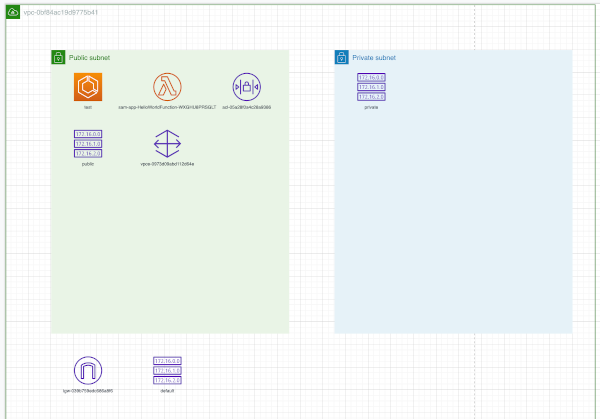
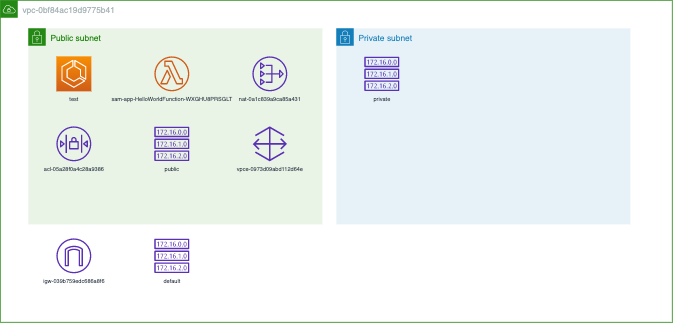
#97 improved dynamic diagram generation

Changed region(s): [[0.0, 0.0, 1.0, 1.0], [0.18, 0.1548, 0.45, 0.5263], [0.36, 0.3715, 0.45, 0.5263]]

diff --git a/cloudiscovery/shared/diagram.py b/cloudiscovery/shared/diagram.py
@@ -404,6 +404,9 @@ class VPCDiagramsNetDiagram(BaseDiagram):
         with open(output_filename, "w") as diagram_file:
             diagram_file.write(diagram)
 
+        message_handler("\n\nDiagrams.net diagram generated", "HEADER")
+        message_handler("Check your diagram: " + output_filename, "OKBLUE")
+
     @staticmethod
     def decode_inflate(value: str):
         decoded = base64.b64decode(value)
@@ -442,20 +445,22 @@ class VPCDiagramsNetDiagram(BaseDiagram):
 
         added_resources: List[ResourceDigest] = []
 
+        vpc_box_height = 56565656
+        subnet_box_height = 424242
         vpc_cell = (
             '<mxCell id="zB3y0Dp3mfEUP9Fxs3Er-{0}" value="{1}" style="points=[[0,0],[0.25,0],[0.5,0],'
             "[0.75,0],[1,0],[1,0.25],[1,0.5],[1,0.75],[1,1],[0.75,1],[0.5,1],[0.25,1],[0,1],[0,0.75],"
             "[0,0.5],[0,0.25]];outlineConnect=0;gradientColor=none;html=1;whiteSpace=wrap;fontSize=12;"
             "fontStyle=0;shape=mxgraph.aws4.group;grIcon=mxgraph.aws4.group_vpc;strokeColor=#248814;"
             'fillColor=none;verticalAlign=top;align=left;spacingLeft=30;fontColor=#AAB7B8;dashed=0;" '
-            'parent="1" vertex="1"><mxGeometry x="0" y="0" width="1040" height="1000" as="geometry" />'
-            "</mxCell>".format(cell_id, vpc_resource.name)
+            'parent="1" vertex="1"><mxGeometry x="0" y="0" width="960" height="{2}" as="geometry" />'
+            "</mxCell>".format(cell_id, vpc_resource.name, vpc_box_height)
         )
         cell_id += 1
         mx_graph_model += vpc_cell
 
-        public_subnet_x = 80
-        public_subnet_y = 80
+        public_subnet_x = 40
+        public_subnet_y = 40
         cell_id += 1
         # pylint: disable=line-too-long
         public_subnet = (
@@ -465,13 +470,17 @@ class VPCDiagramsNetDiagram(BaseDiagram):
             "fontStyle=0;shape=mxgraph.aws4.group;grIcon=mxgraph.aws4.group_security_group;grStroke=0;"
             "strokeColor=#248814;fillColor=#E9F3E6;verticalAlign=top;align=left;spacingLeft=30;"
             'fontColor=#248814;dashed=0;" vertex="1" parent="1"><mxGeometry x="{X}" y="{Y}" width="420" '
-            'height="500" as="geometry" /></mxCell>'.format_map(
-                {"X": str(public_subnet_x), "Y": str(public_subnet_y)}
+            'height="{H}" as="geometry" /></mxCell>'.format_map(
+                {
+                    "X": str(public_subnet_x),
+                    "Y": str(public_subnet_y),
+                    "H": subnet_box_height,
+                }
             )
         )
         mx_graph_model += public_subnet
 
-        mx_graph_model = self.render_subnet_items(
+        (mx_graph_model, public_rows) = self.render_subnet_items(
             added_resources,
             mx_graph_model,
             "{public subnet}",
@@ -481,8 +490,8 @@ class VPCDiagramsNetDiagram(BaseDiagram):
             resources,
         )
 
-        private_subnet_x = 580
-        private_subnet_y = 80
+        private_subnet_x = 480
+        private_subnet_y = 40
         cell_id += 1
         private_subnet = (
             '<mxCell id="private_area_id" value="Private subnet" style="points=[[0,0],[0.25,0],'
@@ -491,13 +500,17 @@ class VPCDiagramsNetDiagram(BaseDiagram):
             "fontSize=12;fontStyle=0;shape=mxgraph.aws4.group;grIcon=mxgraph.aws4.group_security_group;"
             "grStroke=0;strokeColor=#147EBA;fillColor=#E6F2F8;verticalAlign=top;align=left;"
             'spacingLeft=30;fontColor=#147EBA;dashed=0;" vertex="1" parent="1"><mxGeometry '
-            'x="{X}" y="{Y}" width="420" height="500" as="geometry" /></mxCell>'.format_map(
-                {"X": str(private_subnet_x), "Y": str(private_subnet_y)}
+            'x="{X}" y="{Y}" width="420" height="{H}" as="geometry" /></mxCell>'.format_map(
+                {
+                    "X": str(private_subnet_x),
+                    "Y": str(private_subnet_y),
+                    "H": subnet_box_height,
+                }
             )
         )
         mx_graph_model += private_subnet
 
-        mx_graph_model = self.render_subnet_items(
+        (mx_graph_model, private_rows) = self.render_subnet_items(
             added_resources,
             mx_graph_model,
             "{private subnet}",
@@ -505,6 +518,12 @@ class VPCDiagramsNetDiagram(BaseDiagram):
             private_subnet_y,
             resource_relations,
             resources,
+        )
+        subnet_rows = max(public_rows, private_rows)
+        new_subnet_box_height = subnet_rows * 100 + 80
+
+        mx_graph_model = mx_graph_model.replace(
+            str(subnet_box_height), str(new_subnet_box_height)
         )
 
         count = 0
@@ -524,7 +543,7 @@ class VPCDiagramsNetDiagram(BaseDiagram):
                         {
                             "CELL_IDX": resource.digest.to_string(),
                             "X": str(count * 140 + public_subnet_x + 40),
-                            "Y": str(580 + row * 100 + 40),
+                            "Y": str(new_subnet_box_height + row * 100 + 60),
                             "STYLE": style.replace("fontSize=12", "fontSize=8"),
                             "TITLE": resource.name,
                         }
@@ -534,6 +553,11 @@ class VPCDiagramsNetDiagram(BaseDiagram):
                     if count % 6 == 0:
                         row += 1
                         count = 0
+
+        new_vpc_box_height = new_subnet_box_height + 100 * row + 180
+        mx_graph_model = mx_graph_model.replace(
+            str(vpc_box_height), str(new_vpc_box_height)
+        )
 
         mx_graph_model += DIAGRAM_SUFFIX
         return MX_FILE.replace("<MX_GRAPH>", self.deflate_encode(mx_graph_model))
@@ -548,7 +572,7 @@ class VPCDiagramsNetDiagram(BaseDiagram):
         subnet_y,
         resource_relations,
         resources,
-    ):
+    ) -> (str, int):
         count = 0
         row = 0
         # pylint: disable=too-many-nested-blocks
@@ -581,4 +605,4 @@ class VPCDiagramsNetDiagram(BaseDiagram):
                             if count % 3 == 0:
                                 row += 1
                                 count = 0
-        return mx_graph_model
+        return mx_graph_model, row

diff --git a/cloudiscovery/provider/vpc/resource/network.py b/cloudiscovery/provider/vpc/resource/network.py
@@ -99,7 +99,7 @@ class NATGATEWAY(ResourceProvider):
 
         for data in response["NatGateways"]:
 
-            if data["VpcId"] == self.vpc_options.vpc_id:
+            if data["VpcId"] == self.vpc_options.vpc_id and data["State"] != "deleted":
                 nametag = get_name_tag(data)
 
                 name = data["NatGatewayId"] if nametag is None else nametag
